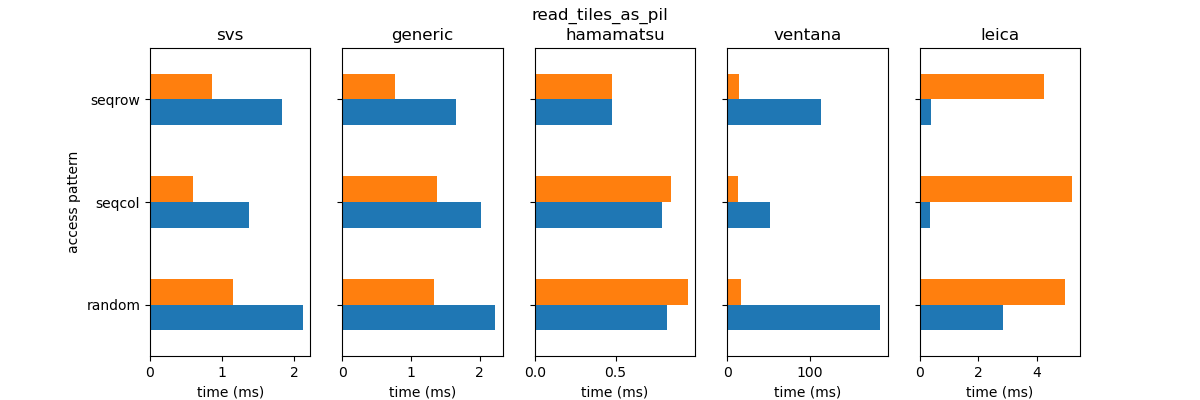
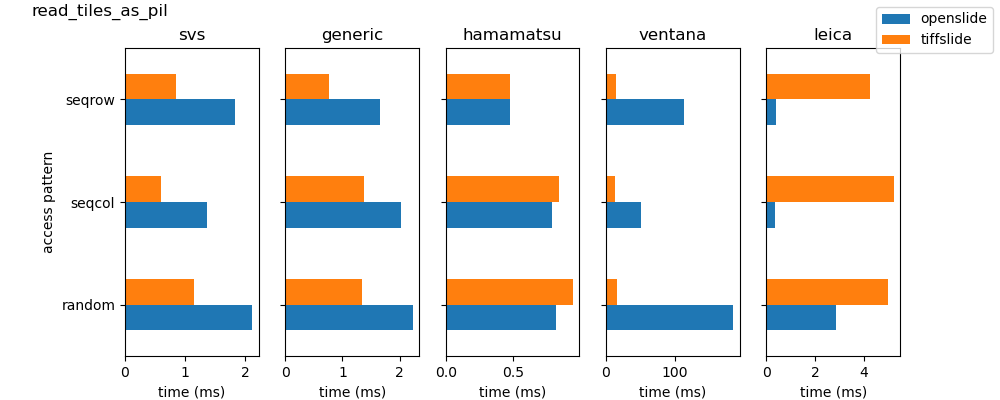
readme: add legend to benchmarks

diff --git a/docs/generate_benchmark_plots.py b/docs/generate_benchmark_plots.py
@@ -53,8 +53,8 @@ def run_pytest_benchmarks(force):
             "leica",
         ]
         assert set(ptdf["file_type"].unique()) == set(ft_ax_order)
-        fig, axes = plt.subplots(1, len(ft_ax_order), figsize=(12, 4))
-        fig.suptitle(test_name)
+        fig, axes = plt.subplots(1, len(ft_ax_order), figsize=(10, 4))
+        fig.suptitle(test_name, x=0.1, y=0.99)
         ft_ax_map = {
             ft: ax
             for ft, ax in zip(ft_ax_order, axes)
@@ -75,6 +75,8 @@ def run_pytest_benchmarks(force):
             ax.set_yticklabels([])
         for ax in axes:
             ax.set_xlabel("time (ms)")
+        handles, labels = axes[0].get_legend_handles_labels()
+        fig.legend(handles, labels, loc='upper right')
 
         fig.savefig(root.joinpath("docs", "images", f"benchmark_{test_name}.png"))
 
